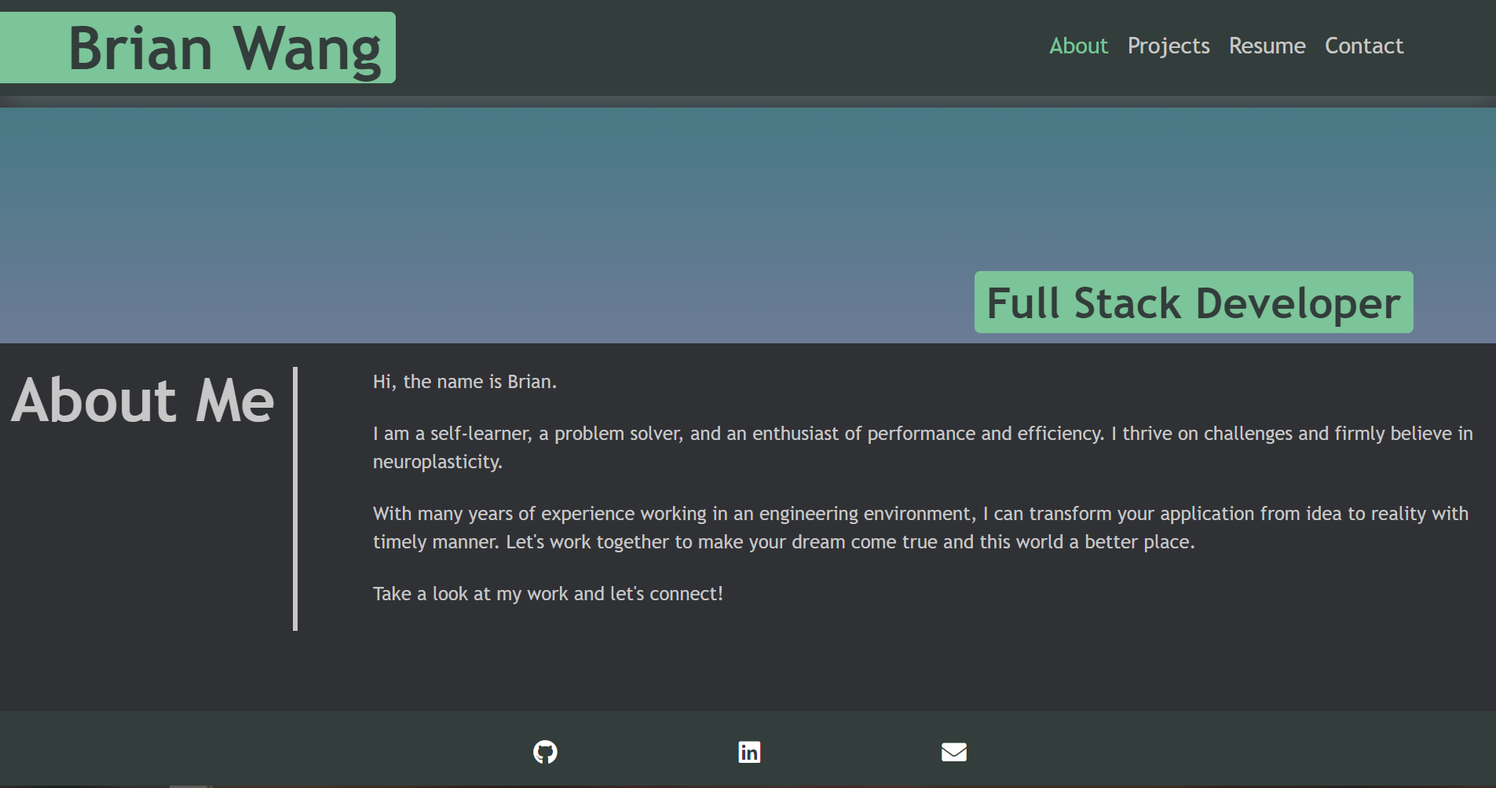
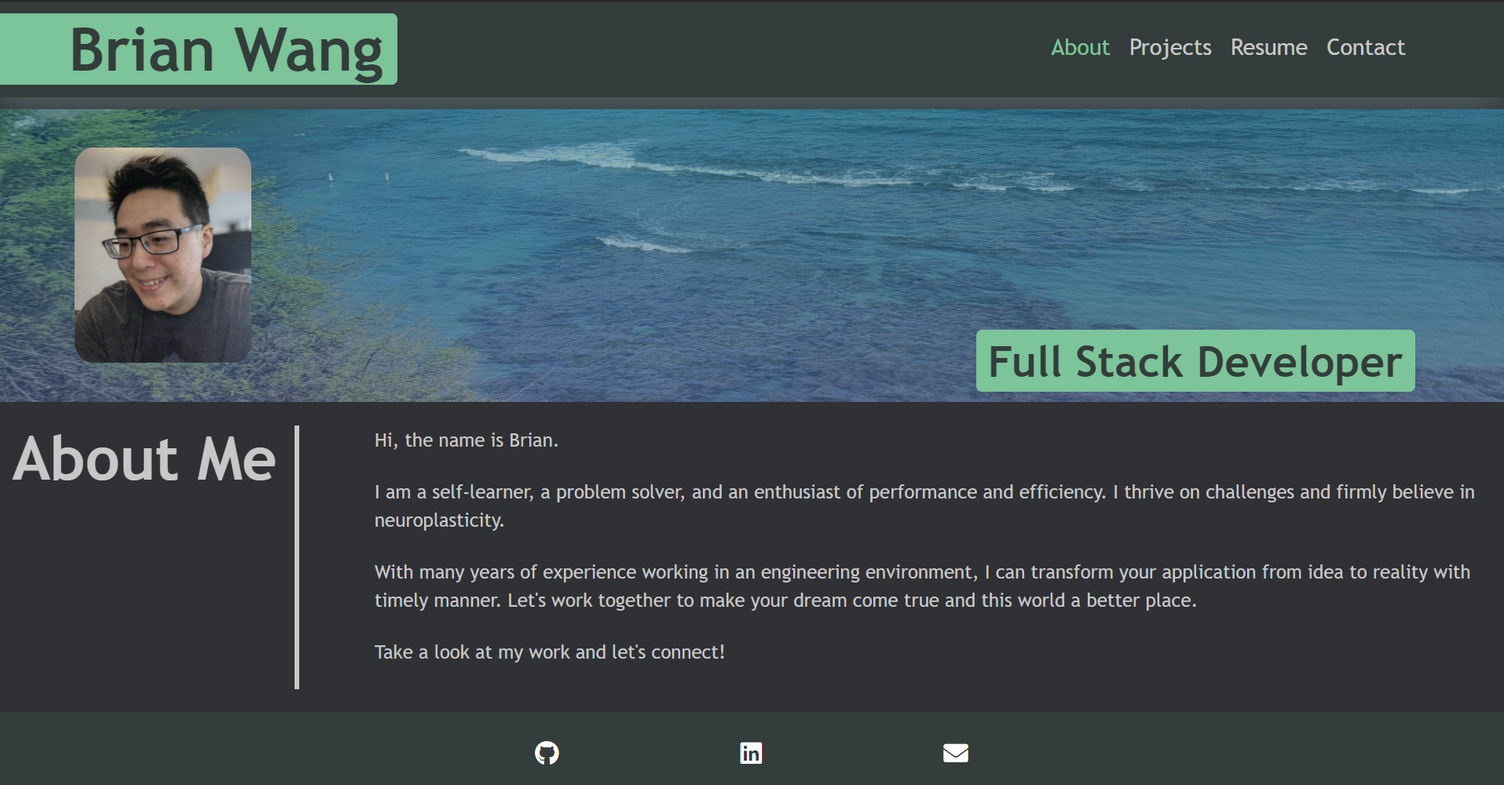
Updates

diff --git a/static/css/main.a3dd89c6.chunk.css b/static/css/main.a3dd89c6.chunk.css
@@ -1,0 +1,2 @@
+body{font-family:-apple-system,BlinkMacSystemFont,"Segoe UI","Roboto","Oxygen","Ubuntu","Cantarell","Fira Sans","Droid Sans","Helvetica Neue",sans-serif;-webkit-font-smoothing:antialiased;-moz-osx-font-smoothing:grayscale}code{font-family:source-code-pro,Menlo,Monaco,Consolas,"Courier New",monospace}.App{text-align:center}.App-logo{height:40vmin;pointer-events:none}@media (prefers-reduced-motion:no-preference){.App-logo{-webkit-animation:App-logo-spin 20s linear infinite;animation:App-logo-spin 20s linear infinite}}.App-header{background-color:#282c34;min-height:100vh;display:-webkit-flex;display:flex;-webkit-flex-direction:column;flex-direction:column;-webkit-align-items:center;align-items:center;-webkit-justify-content:center;justify-content:center;font-size:calc(10px + 2vmin);color:#fff}.App-link{color:#61dafb}@-webkit-keyframes App-logo-spin{0%{-webkit-transform:rotate(0deg);transform:rotate(0deg)}to{-webkit-transform:rotate(1turn);transform:rotate(1turn)}}@keyframes App-logo-spin{0%{-webkit-transform:rotate(0deg);transform:rotate(0deg)}to{-webkit-transform:rotate(1turn);transform:rotate(1turn)}}*{box-sizing:border-box}:root{--primary:#c7c7c7;--secondary:#6ac599;--tertiary:#313d3b;--project-primary:hsla(0,0%,78%,0.285);--dark:#303135;--light:#eeeef7;--spacing-one:0.5rem;--spacing-two:1rem}body{padding:0;font-family:"Trebuchet MS","Lucida Sans Unicode","Lucida Grande","Lucida Sans",Arial,sans-serif;color:#c7c7c7;color:var(--primary);background-color:#303135;background-color:var(--dark);line-height:1.5}body,h1,h2,h3,h4,h5,h6,p{margin:0}header{padding:5px 6% 5px 0;display:-webkit-flex;display:flex;-webkit-flex-direction:row;flex-direction:row;-webkit-justify-content:space-between;justify-content:space-between;-webkit-flex-wrap:wrap;flex-wrap:wrap;-webkit-align-items:center;align-items:center;background-color:#313d3b;background-color:var(--tertiary);box-shadow:0 5px 35px rgba(146,204,206,.4)}header h1{border-radius:0 5px 5px 0;color:#313d3b;color:var(--tertiary);background-color:#6ac599;background-color:var(--secondary);padding:5px 1% 5px 5%;margin:0;font-size:4vw;line-height:1}header a:hover{color:#eeeef7;color:var(--light);background-image:url(/my-portfolio-react/static/media/01-cover.cb5d76eb.jpg),linear-gradient(180deg,#6ac599,#c7c7c7);background-image:url(/my-portfolio-react/static/media/01-cover.cb5d76eb.jpg),linear-gradient(180deg,var(--secondary),var(--primary));background-size:cover;background-position:50%;background-blend-mode:soft-light}nav{display:-webkit-flex;display:flex;-webkit-flex-direction:row;flex-direction:row;-webkit-flex-wrap:wrap;flex-wrap:wrap;font-size:1.2rem}li{list-style:none}nav li{border-bottom:4px solid #313d3b;border-bottom:4px solid var(--tertiary)}nav li,nav li:hover{text-decoration:none}nav li:hover{transition:all .15s ease-in;border-bottom:4px solid #c7c7c7;border-bottom:4px solid var(--primary)}nav li{cursor:pointer}.mx-1{margin-right:.5rem;margin-right:var(--spacing-one);margin-left:.5rem;margin-left:var(--spacing-one)}.mx-2{margin-right:1rem;margin-right:var(--spacing-two);margin-left:1rem;margin-left:var(--spacing-two)}.flex-row{display:-webkit-flex;display:flex;-webkit-flex-wrap:wrap;flex-wrap:wrap}.navActive{color:#6ac599;color:var(--secondary)}main{margin-top:10px;margin-bottom:3rem}.hero-banner,.light{color:#eeeef7;color:var(--light)}.hero-banner{background:#445878;background-image:url(/my-portfolio-react/static/media/01-cover.cb5d76eb.jpg),linear-gradient(180deg,#6ac599,#c7c7c7);background-image:url(/my-portfolio-react/static/media/01-cover.cb5d76eb.jpg),linear-gradient(180deg,var(--secondary),var(--primary));background-size:cover;background-position:50%;background-blend-mode:soft-light;min-height:30vh;display:-webkit-flex;display:flex;-webkit-justify-content:flex-end;justify-content:flex-end;-webkit-align-items:flex-end;align-items:flex-end;text-align:right;padding:1% 6% 1% 10vw}.hero-banner img{width:150px;margin:20px;border-radius:10%;opacity:.9}.hero-banner img:hover{opacity:1}.hero-banner div{-webkit-flex:0 0 90%;flex:0 0 90%}.hero-banner h2{background-color:#6ac599;background-color:var(--secondary);border-radius:5px;color:#313d3b;color:var(--tertiary);margin:0;padding:5px 10px;font-size:2.3rem;line-height:1.2;display:inline}a:visited,a i{text-decoration:none;color:#fff}.skills-container{display:grid;grid-template-columns:repeat(5,1fr);grid-gap:10px;gap:10px;grid-auto-rows:minmax(90px,auto);margin:10px 200px;-webkit-flex:0 0 80%;flex:0 0 80%}.skills-item{justify-self:center;height:70px;width:70px}.skills-item:hover{transition:all .15s ease-out;height:80px;width:80px}.skills-item-1-1{grid-column:1;grid-row:1}.skills-item-2-1{grid-column:2;grid-row:1}.skills-item-3-1{grid-column:3;grid-row:1}.skills-item-4-1{grid-column:4;grid-row:1}.skills-item-5-1{grid-column:5;grid-row:1}.skills-item-1-2{grid-column:1;grid-row:2}.skills-item-2-2{grid-column:2;grid-row:2}.skills-item-3-2{grid-column:3;grid-row:2}.skills-item-4-2{grid-column:4;grid-row:2}.skills-item-5-2{grid-column:5;grid-row:2}.skills-item-1-3{grid-column:1;grid-row:3}.skills-item-2-3{grid-column:2;grid-row:3}.skills-item-3-3{grid-column:3;grid-row:3}.skills-item-4-3{grid-column:4;grid-row:3}.skills-item-5-3{grid-column:5;grid-row:3}.skills-item-1-4{grid-column:1;grid-row:4}.skills-item-2-4{grid-column:2;grid-row:4}.skills-item-3-4{grid-column:3;grid-row:4}.skills-item-4-4{grid-column:4;grid-row:4}.skills-item-5-4{grid-column:5;grid-row:4}.skills{font-size:20px;text-align:right;padding-top:3px;padding-bottom:3px;padding-right:10px;color:#eeeef7;color:var(--light);display:inline-block}.page-wrapper{max-width:88%;margin-left:auto;margin-right:auto}.page-section{margin:10px 0;padding:10px 0;display:-webkit-flex;display:flex;-webkit-flex-direction:row;flex-direction:row;-webkit-flex-wrap:wrap;flex-wrap:wrap;-webkit-align-items:stretch;align-items:stretch;-webkit-justify-content:space-between;justify-content:space-between}.page-section>h2{-webkit-flex:0 0 20%;flex:0 0 20%;text-align:right;padding-right:15px;border-right:4px solid #c7c7c7;border-right:4px solid var(--primary);font-size:4vw;line-height:1.1}.page-section>div{-webkit-flex:0 0 75%;flex:0 0 75%}.page-section p{text-align:left;margin-bottom:20px}.project-page{-webkit-justify-content:center;justify-content:center}.grid-container{display:grid;grid-column-gap:10px;-webkit-column-gap:10px;column-gap:10px;grid-row-gap:5px;row-gap:5px;grid-auto-flow:dense;grid-template-columns:repeat(12,1fr);grid-auto-rows:minmax(150px,1fr)}.grid-item{border:5px solid #6ac599;border:5px solid var(--secondary);grid-column:span 4;background-color:hsla(0,0%,78%,.285);background-color:var(--project-primary);color:#313d3b;color:var(--tertiary);min-height:100px;display:-webkit-flex;display:flex;-webkit-align-items:flex-end;align-items:flex-end;padding:0 0 20px;text-decoration:none;background-blend-mode:soft-light;background-size:150%;transition:all .15s;font-size:.8rem}.grid-item:first-child{grid-column:span 8;grid-row:span 2}.grid-item:hover{background-color:rgba(0,0,0,.3)}.grid-item div{background-color:#6ac599;background-color:var(--secondary);padding:3px 5px}.grid-item h3{font-size:1.3rem}.contact{display:-webkit-flex;display:flex;-webkit-flex-wrap:wrap;flex-wrap:wrap;-webkit-justify-content:space-around;justify-content:space-around;-webkit-align-items:right;align-items:right;height:4rem}.contact a{color:#eeeef7;color:var(--light);padding:5px;text-decoration:none;font-size:1.3rem;font-style:normal;background-repeat:no-repeat;background-size:100% .2em;background-position:bottom;transition:all .15s ease-in;margin:0 .2rem .1rem;display:inline-block;border-bottom:4px solid #313d3b;border-bottom:4px solid var(--tertiary)}.contact a:hover{background-size:100% 88%;border-bottom:4px solid #c7c7c7;border-bottom:4px solid var(--primary)}.footer-div{width:100%;position:absolute;bottom:0;padding:15px 35%;display:-webkit-flex;display:flex;-webkit-flex-direction:row;flex-direction:row;-webkit-justify-content:space-between;justify-content:space-between;-webkit-flex-wrap:wrap;flex-wrap:wrap;-webkit-align-items:center;align-items:center;background-color:#313d3b;background-color:var(--tertiary)}.run-buddy{background-image:url(/my-portfolio-react/static/media/02-run-buddy.b57f2b88.jpg)}.SaveTV{background-image:url(/my-portfolio-react/static/media/02-SaveTV.3c4e9e1b.gif);background-size:100%;background-position:-50%}.weather-dashboard{background-image:url(/my-portfolio-react/static/media/02-weather-dashboard.c79cdfc3.png)}.day-scheduler{background-image:url(/my-portfolio-react/static/media/02-day-scheduler.5e35d7c6.png)}.task-master{background-image:url(/my-portfolio-react/static/media/02-task-master.2f2d6197.png)}.woof{background-image:url(/my-portfolio-react/static/media/02-woof-login-page.36a303f6.JPG)}.airhockey-table{background-image:url(/my-portfolio-react/static/media/02-airhockey-table.9531cc7b.png);background-size:150%;background-position:0 40%}.reward-bank{background-image:url(/my-portfolio-react/static/media/02-reward-bank.a0e0a581.png);background-size:100%;background-position:0 0}.contact-form,.contact-form div{justify-self:center}.contact-form div{width:80%}.contact-form input{font-size:1rem;padding:.25rem;border:1px solid #303135;border:1px solid var(--dark);outline:none;border-radius:3px;transition:box-shadow .15s}.contact-form input:focus{border:1px solid #6ac599;border:1px solid var(--secondary);box-shadow:0 0 .25rem rgba(0,0,0,.5)}.contact-form textarea{height:120px;justify-self:left;border:3px solid #ccc;padding:10px}.contact-form button{font-size:1rem;text-decoration:none;padding:.25rem 1rem;border-radius:.5rem;border:none;outline:none;cursor:pointer;margin:0 1px;background-color:#6ac599;background-color:var(--secondary)}.contact-form button:hover{opacity:.8}.contact-form button[disabled]{cursor:default;opacity:.8}.contact-flex{display:-webkit-flex;display:flex}.contact-flex-left{-webkit-flex:0 0 40%;flex:0 0 40%}.contact-flex-right{-webkit-flex:0 0 60%;flex:0 0 60%}@media screen and (max-width:980px){header{padding:0 0 10px;-webkit-justify-content:center;justify-content:center;text-align:center}header h1{width:100%;padding:5px;margin-bottom:5px;font-size:10vw}header nav{-webkit-justify-content:center;justify-content:center}.page-section>div,.page-section>h2{-webkit-flex:0 0 100%;flex:0 0 100%}.page-section>h2{border-right:none;border-bottom:4px solid #c7c7c7;border-bottom:4px solid var(--primary);margin-bottom:20px;padding-bottom:10px;text-align:left;font-size:7vw}.project-page{margin-left:0;margin-right:0}.hero-banner{-webkit-flex-direction:column;flex-direction:column;-webkit-justify-content:space-between;justify-content:space-between;-webkit-align-items:center;align-items:center;text-align:center;padding-left:50px}.about-page{padding:5%}.skills-name{width:20%}.skills-container{display:grid;grid-template-columns:repeat(5,1fr);grid-gap:10px;gap:10px;grid-auto-rows:minmax(70px,auto);margin:10px 100px}.footer-div{position:relative;padding:15px 30%}.cotact-form{width:100%}.contact-form div{width:auto}.contact-form input,.contact-form textarea{width:100%}.contact-flex{padding:15px 10%;width:100%;-webkit-justify-content:flex-start;justify-content:flex-start;-webkit-flex-direction:column;flex-direction:column}.contact-flex,.contact-flex-left,.contact-flex-right{-webkit-flex:0 0 100%;flex:0 0 100%}}@media screen and (max-width:768px){.grid-item,.grid-item:first-child{grid-column:1/-1}.grid-container{grid-auto-rows:minmax(200px,1fr)}.contact address{-webkit-flex-direction:column;flex-direction:column;-webkit-align-items:center;align-items:center}.skills-container{display:grid;grid-template-columns:repeat(5,1fr);grid-gap:20px;gap:20px;grid-auto-rows:minmax(100px,auto);margin:10px}.footer-div{padding:15px 20%}.contact-form input,.contact-form textarea,.cotact-form{width:100%}}
+/*# sourceMappingURL=main.a3dd89c6.chunk.css.map */

diff --git a/static/js/main.a2506a3e.chunk.js b/static/js/main.a2506a3e.chunk.js
@@ -1,0 +1,2 @@
+(this["webpackJsonpmy-portfolio-react"]=this["webpackJsonpmy-portfolio-react"]||[]).push([[0],[,,,,,,,,,,,function(e,t,s){},function(e,t,s){},,function(e,t,s){"use strict";s.r(t),t.default=s.p+"static/media/01-profile-pic.65e2abc6.jpg"},function(e,t,s){var a={"./arduino-1.svg":16,"./bootstrap-5-1.svg":17,"./c-Sharp-01.svg":18,"./c.svg":19,"./css-5.svg":20,"./git-icon.svg":21,"./github-icon-1.svg":22,"./heroku-4.svg":23,"./html5.svg":24,"./insomnia-core.svg":25,"./javascript.svg":26,"./mongodb-icon-1.svg":27,"./mysql-5.svg":28,"./node-JS-01.svg":29,"./npm-square-red-1.svg":30,"./npm.svg":31,"./openCV.svg":32,"./react-icon.svg":33,"./sequelize.svg":34,"./visual-studio-2013.svg":35,"./visual-studio-code-1.svg":36};function i(e){var t=c(e);return s(t)}function c(e){if(!s.o(a,e)){var t=new Error("Cannot find module '"+e+"'");throw t.code="MODULE_NOT_FOUND",t}return a[e]}i.keys=function(){return Object.keys(a)},i.resolve=c,e.exports=i,i.id=15},function(e,t,s){"use strict";s.r(t),t.default=s.p+"static/media/arduino-1.5e8b9530.svg"},function(e,t,s){"use strict";s.r(t),t.default=s.p+"static/media/bootstrap-5-1.98585727.svg"},function(e,t,s){"use strict";s.r(t),t.default=s.p+"static/media/c-Sharp-01.b3937fbb.svg"},function(e,t,s){"use strict";s.r(t),t.default=s.p+"static/media/c.a776a608.svg"},function(e,t,s){"use strict";s.r(t),t.default=s.p+"static/media/css-5.d4c86ccd.svg"},function(e,t,s){"use strict";s.r(t),t.default=s.p+"static/media/git-icon.c60b7e5a.svg"},function(e,t,s){"use strict";s.r(t),t.default=s.p+"static/media/github-icon-1.e0d7d725.svg"},function(e,t,s){"use strict";s.r(t),t.default=s.p+"static/media/heroku-4.b7e7f910.svg"},function(e,t,s){"use strict";s.r(t),t.default=s.p+"static/media/html5.3efc40a5.svg"},function(e,t,s){"use strict";s.r(t),t.default=s.p+"static/media/insomnia-core.c3d741d7.svg"},function(e,t,s){"use strict";s.r(t),t.default=s.p+"static/media/javascript.00f3e5cf.svg"},function(e,t,s){"use strict";s.r(t),t.default=s.p+"static/media/mongodb-icon-1.1aca075d.svg"},function(e,t,s){"use strict";s.r(t),t.default=s.p+"static/media/mysql-5.f6cec086.svg"},function(e,t,s){"use strict";s.r(t),t.default=s.p+"static/media/node-JS-01.f163cddf.svg"},function(e,t,s){"use strict";s.r(t),t.default=s.p+"static/media/npm-square-red-1.d8917a42.svg"},function(e,t,s){"use strict";s.r(t),t.default=s.p+"static/media/npm.5066c092.svg"},function(e,t,s){"use strict";s.r(t),t.default=s.p+"static/media/openCV.befbdbe5.svg"},function(e,t,s){"use strict";s.r(t),t.default=s.p+"static/media/react-icon.e68b35f4.svg"},function(e,t,s){"use strict";s.r(t),t.default=s.p+"static/media/sequelize.70ccab6c.svg"},function(e,t,s){"use strict";s.r(t),t.default=s.p+"static/media/visual-studio-2013.bf694f65.svg"},function(e,t,s){"use strict";s.r(t),t.default=s.p+"static/media/visual-studio-code-1.b8b1e001.svg"},function(e,t,s){"use strict";s.r(t);var a=s(1),i=s.n(a),c=s(6),n=s.n(c),r=(s(11),s(2)),l=(s(12),s(0));var o=function(){return Object(l.jsxs)(l.Fragment,{children:[Object(l.jsxs)("section",{className:"hero-banner",children:[Object(l.jsx)("img",{src:s(14).default,alt:"brian"}),Object(l.jsx)("div",{children:Object(l.jsx)("h2",{children:"Full Stack Developer"})})]}),Object(l.jsxs)("section",{className:"page-section about-page",id:"about",children:[Object(l.jsx)("h2",{children:"About Me"}),Object(l.jsxs)("div",{children:[Object(l.jsx)("p",{children:"Hi, the name is Brian."}),Object(l.jsx)("p",{children:"I am a self-learner, a problem solver, and an enthusiast of performance and efficiency. I thrive on challenges and firmly believe in neuroplasticity."}),Object(l.jsx)("p",{children:"With many years of experience working in an engineering environment, I can transform your application from idea to reality with timely manner. Let's work together to make your dream come true and this world a better place."}),Object(l.jsx)("p",{children:"Take a look at my work and let's connect!"})]})]})]})},m=s(3),d=s(5);var u=function(){var e=Object(a.useState)({name:"",email:"",message:""}),t=Object(r.a)(e,2),s=t[0],i=t[1],c=s.name,n=s.email,o=s.message,u=Object(a.useState)(""),b=Object(r.a)(u,2),j=b[0],g=b[1];function f(e){switch(e.target.name){case"name":e.target.value.trim()?g(""):g("Missing name.");break;case"email":var t=function(e){return/^(([^<>()[\]\\.,;:\s@"]+(\.[^<>()[\]\\.,;:\s@"]+)*)|(".+"))@((\[[0-9]{1,3}\.[0-9]{1,3}\.[0-9]{1,3}\.[0-9]{1,3}\])|(([a-zA-Z\-0-9]+\.)+[a-zA-Z]{2,}))$/.test(String(e).toLowerCase())}(e.target.value);e.target.value.trim()&&!t?g("Your email is invalid."):e.target.value.trim()?g(""):g("Missing email.");break;case"message":e.target.value.trim()?g(""):g("Missing message.")}j||i(Object(d.a)(Object(d.a)({},s),{},Object(m.a)({},e.target.name,e.target.value))),console.log("errorMessage",j)}return Object(l.jsxs)("section",{children:[Object(l.jsx)("br",{}),Object(l.jsx)("h1",{"data-testid":"testId-contact-h1",children:"Contact me"}),Object(l.jsx)("br",{}),Object(l.jsxs)("form",{className:"contact-form",id:"contact-form",onSubmit:function(e){e.preventDefault(),console.log(s)},children:[Object(l.jsxs)("div",{className:"contact-flex",children:[Object(l.jsx)("label",{className:"contact-flex-left",htmlFor:"name",children:"Name:"}),Object(l.jsx)("input",{className:"contact-flex-right",type:"text",defaultValue:c,onBlur:f,name:"name"})]}),Object(l.jsx)("br",{}),Object(l.jsxs)("div",{className:"contact-flex",children:[Object(l.jsx)("label",{className:"contact-flex-left",htmlFor:"email",children:"Email address:"}),Object(l.jsx)("input",{className:"contact-flex-right",type:"email",defaultValue:n,name:"email",onBlur:f})]}),Object(l.jsx)("br",{}),Object(l.jsxs)("div",{className:"contact-flex",children:[Object(l.jsx)("label",{className:"contact-flex-left",htmlFor:"message",children:"Message:"}),Object(l.jsx)("textarea",{className:"contact-flex-right",name:"message",defaultValue:o,onBlur:f,rows:"5"})]}),Object(l.jsx)("div",{children:j&&Object(l.jsx)("p",{className:"error-text",children:j})}),Object(l.jsx)("br",{}),Object(l.jsx)("button",{type:"submit","data-testid":"testId-contact-button",children:"Submit"})]})]})};var b=function(){return Object(l.jsx)("footer",{children:Object(l.jsxs)("address",{className:"footer-div contact",children:[Object(l.jsx)("a",{href:"https://github.com/BrianCKWang/",target:"_blank",rel:"noreferrer",children:Object(l.jsx)("i",{className:"fab fa-github social-icon"})}),Object(l.jsx)("a",{href:"https://www.linkedin.com/in/chun-kai-brian-wang-292b6b48/",target:"_blank",rel:"noreferrer",children:Object(l.jsx)("i",{className:"fab fa-linkedin social-icon"})}),Object(l.jsx)("a",{href:"mailto:brian.ck.wang@gmail.com",target:"_blank",rel:"noreferrer",children:Object(l.jsx)("i",{className:"fas fa-envelope social-icon"})})]})})};var j=function(e){var t=e.pages,s=void 0===t?[]:t,a=e.currentPage,i=e.setCurrentPage;return Object(l.jsxs)("header",{children:[Object(l.jsx)("h1",{children:"Brian Wang"}),Object(l.jsx)("nav",{children:Object(l.jsx)("ul",{className:"flex-row",children:s.map((function(e){return Object(l.jsx)("li",{className:"mx-1 ".concat(a.name===e.name&&"navActive"),children:Object(l.jsx)("span",{onClick:function(){i(e)},children:(t=e.name,t.charAt(0).toUpperCase()+t.slice(1))})},e.name);var t}))})})]})};var g=function(){return Object(l.jsx)(l.Fragment,{children:Object(l.jsx)("section",{className:"page-section project-page",id:"work",children:Object(l.jsx)("div",{className:"grid-container",children:[{name:"Woof",a_class:"grid-item woof",link:"https://github.com/woof-board/woof",skillList:"MERN Stack/Stripe API"},{name:"RewardBank",a_class:"grid-item reward-bank",link:"https://rocky-dawn-18669.herokuapp.com/",skillList:"MVC/REST Api/JavaScript"},{name:"SaveTV",a_class:"grid-item SaveTV",link:"https://utbootcampgroup2.github.io/SaveTV/",skillList:"JavaScript"},{name:"Weather Dashboard",a_class:"grid-item weather-dashboard",link:"https://brianckwang.github.io/weather-dashboard/",skillList:"JavaScript/OpenWeatherMap"},{name:"Day Scheduler",a_class:"grid-item day-scheduler",link:"https://brianckwang.github.io/simple-day-scheduler/",skillList:"JavaScript"},{name:"Airhockey Robot",a_class:"grid-item airhockey-table",link:"https://github.com/BrianCKWang/airhockey-table-robot",skillList:"C#/EMGU CV.NET/Arduino"}].map((function(e,t){return Object(l.jsx)("a",{href:e.link,className:e.a_class,target:"_blank",rel:"noreferrer",children:Object(l.jsxs)("div",{children:[Object(l.jsx)("h3",{children:e.name}),Object(l.jsx)("span",{children:e.skillList})]})},"a"+t)}))})})})},f=s.p+"static/media/Resume.1a273d9a.pdf";var h=function(){return Object(l.jsx)(l.Fragment,{children:Object(l.jsxs)("section",{className:"my-5",children:[Object(l.jsxs)("div",{className:"skills-div",children:[Object(l.jsx)("br",{}),Object(l.jsx)("h2",{children:"My Skill Bag"}),Object(l.jsx)("br",{}),Object(l.jsx)("div",{className:"skills-container",children:[{class:"skills-item skills-item-1-1",name:"HTML",icon:"html5.svg"},{class:"skills-item skills-item-2-1",name:"CSS",icon:"css-5.svg"},{class:"skills-item skills-item-3-1",name:"Javascript",icon:"javascript.svg"},{class:"skills-item skills-item-4-1",name:"Nodejs",icon:"node-JS-01.svg"},{class:"skills-item skills-item-5-1",name:"Bootstrap",icon:"bootstrap-5-1.svg"},{class:"skills-item skills-item-1-2",name:"MySQL",icon:"mysql-5.svg"},{class:"skills-item skills-item-4-2",name:"Sequelize",icon:"sequelize.svg"},{class:"skills-item skills-item-2-2",name:"MongoDB",icon:"mongodb-icon-1.svg"},{class:"skills-item skills-item-3-2",name:"npm",icon:"npm-square-red-1.svg"},{class:"skills-item skills-item-5-2",name:"React",icon:"react-icon.svg"},{class:"skills-item skills-item-1-3",name:"VisualStudioCode",icon:"visual-studio-code-1.svg"},{class:"skills-item skills-item-4-3",name:"VisualStudio",icon:"visual-studio-2013.svg"},{class:"skills-item skills-item-2-3",name:"Csharp",icon:"c-Sharp-01.svg"},{class:"skills-item skills-item-3-3",name:"Arduino",icon:"arduino-1.svg"},{class:"skills-item skills-item-5-3",name:"OpenCV",icon:"openCV.svg"}].map((function(e,t){return Object(l.jsx)("img",{className:e.class,title:e.name,src:s(15)("./".concat(e.icon)).default,alt:e.name},t)}))})]}),Object(l.jsx)("br",{}),Object(l.jsxs)("div",{className:"resume-div",children:[Object(l.jsx)("h1",{children:"Download my resume"}),Object(l.jsx)("a",{href:f,children:"Click me!"})]})]})})};var v=function(){var e=Object(a.useState)([{name:"About",JSX:Object(l.jsx)(o,{})},{name:"Projects",JSX:Object(l.jsx)(g,{})},{name:"Resume",JSX:Object(l.jsx)(h,{})},{name:"Contact",JSX:Object(l.jsx)(u,{})}]),t=Object(r.a)(e,1)[0],s=Object(a.useState)(t[0]),i=Object(r.a)(s,2),c=i[0],n=i[1];return Object(a.useEffect)((function(){document.title="Brian's "+c.name}),[c]),Object(l.jsxs)("div",{className:"App",children:[Object(l.jsx)(j,{pages:t,currentPage:c,setCurrentPage:n}),Object(l.jsx)("main",{children:c.JSX}),Object(l.jsx)(b,{})]})},p=function(e){e&&e instanceof Function&&s.e(3).then(s.bind(null,38)).then((function(t){var s=t.getCLS,a=t.getFID,i=t.getFCP,c=t.getLCP,n=t.getTTFB;s(e),a(e),i(e),c(e),n(e)}))};n.a.render(Object(l.jsx)(i.a.StrictMode,{children:Object(l.jsx)(v,{})}),document.getElementById("root")),p()}],[[37,1,2]]]);
+//# sourceMappingURL=main.a2506a3e.chunk.js.map

diff --git a/index.html b/index.html
@@ -1,1 +1,1 @@
-<!doctype html><html lang="en"><head><meta charset="utf-8"/><link rel="icon" href="/my-portfolio-react/favicon.ico"/><meta name="viewport" content="width=device-width,initial-scale=1"/><meta name="theme-color" content="#000000"/><meta name="description" content="Web site created using create-react-app"/><link rel="apple-touch-icon" href="/my-portfolio-react/logo192.png"/><link rel="manifest" href="/my-portfolio-react/manifest.json"/><title>React App</title><script src="https://kit.fontawesome.com/beae1c0869.js" crossorigin="anonymous"></script><link href="/my-portfolio-react/static/css/main.c88ef37d.chunk.css" rel="stylesheet"></head><body><noscript>You need to enable JavaScript to run this app.</noscript><div id="root"></div><script>!function(e){function r(r){for(var n,i,a=r[0],c=r[1],l=r[2],p=0,s=[];p<a.length;p++)i=a[p],Object.prototype.hasOwnProperty.call(o,i)&&o[i]&&s.push(o[i][0]),o[i]=0;for(n in c)Object.prototype.hasOwnProperty.call(c,n)&&(e[n]=c[n]);for(f&&f(r);s.length;)s.shift()();return u.push.apply(u,l||[]),t()}function t(){for(var e,r=0;r<u.length;r++){for(var t=u[r],n=!0,a=1;a<t.length;a++){var c=t[a];0!==o[c]&&(n=!1)}n&&(u.splice(r--,1),e=i(i.s=t[0]))}return e}var n={},o={1:0},u=[];function i(r){if(n[r])return n[r].exports;var t=n[r]={i:r,l:!1,exports:{}};return e[r].call(t.exports,t,t.exports,i),t.l=!0,t.exports}i.e=function(e){var r=[],t=o[e];if(0!==t)if(t)r.push(t[2]);else{var n=new Promise((function(r,n){t=o[e]=[r,n]}));r.push(t[2]=n);var u,a=document.createElement("script");a.charset="utf-8",a.timeout=120,i.nc&&a.setAttribute("nonce",i.nc),a.src=function(e){return i.p+"static/js/"+({}[e]||e)+"."+{3:"10fc3f06"}[e]+".chunk.js"}(e);var c=new Error;u=function(r){a.onerror=a.onload=null,clearTimeout(l);var t=o[e];if(0!==t){if(t){var n=r&&("load"===r.type?"missing":r.type),u=r&&r.target&&r.target.src;c.message="Loading chunk "+e+" failed.\n("+n+": "+u+")",c.name="ChunkLoadError",c.type=n,c.request=u,t[1](c)}o[e]=void 0}};var l=setTimeout((function(){u({type:"timeout",target:a})}),12e4);a.onerror=a.onload=u,document.head.appendChild(a)}return Promise.all(r)},i.m=e,i.c=n,i.d=function(e,r,t){i.o(e,r)||Object.defineProperty(e,r,{enumerable:!0,get:t})},i.r=function(e){"undefined"!=typeof Symbol&&Symbol.toStringTag&&Object.defineProperty(e,Symbol.toStringTag,{value:"Module"}),Object.defineProperty(e,"__esModule",{value:!0})},i.t=function(e,r){if(1&r&&(e=i(e)),8&r)return e;if(4&r&&"object"==typeof e&&e&&e.__esModule)return e;var t=Object.create(null);if(i.r(t),Object.defineProperty(t,"default",{enumerable:!0,value:e}),2&r&&"string"!=typeof e)for(var n in e)i.d(t,n,function(r){return e[r]}.bind(null,n));return t},i.n=function(e){var r=e&&e.__esModule?function(){return e.default}:function(){return e};return i.d(r,"a",r),r},i.o=function(e,r){return Object.prototype.hasOwnProperty.call(e,r)},i.p="/my-portfolio-react/",i.oe=function(e){throw console.error(e),e};var a=this["webpackJsonpmy-portfolio-react"]=this["webpackJsonpmy-portfolio-react"]||[],c=a.push.bind(a);a.push=r,a=a.slice();for(var l=0;l<a.length;l++)r(a[l]);var f=c;t()}([])</script><script src="/my-portfolio-react/static/js/2.a3836d2d.chunk.js"></script><script src="/my-portfolio-react/static/js/main.beb04224.chunk.js"></script></body></html>
+<!doctype html><html lang="en"><head><meta charset="utf-8"/><link rel="icon" href="/my-portfolio-react/favicon.ico"/><meta name="viewport" content="width=device-width,initial-scale=1"/><meta name="theme-color" content="#000000"/><meta name="description" content="Web site created using create-react-app"/><link rel="apple-touch-icon" href="/my-portfolio-react/logo192.png"/><link rel="manifest" href="/my-portfolio-react/manifest.json"/><title>React App</title><script src="https://kit.fontawesome.com/beae1c0869.js" crossorigin="anonymous"></script><link href="/my-portfolio-react/static/css/main.a3dd89c6.chunk.css" rel="stylesheet"></head><body><noscript>You need to enable JavaScript to run this app.</noscript><div id="root"></div><script>!function(e){function r(r){for(var n,i,a=r[0],c=r[1],l=r[2],p=0,s=[];p<a.length;p++)i=a[p],Object.prototype.hasOwnProperty.call(o,i)&&o[i]&&s.push(o[i][0]),o[i]=0;for(n in c)Object.prototype.hasOwnProperty.call(c,n)&&(e[n]=c[n]);for(f&&f(r);s.length;)s.shift()();return u.push.apply(u,l||[]),t()}function t(){for(var e,r=0;r<u.length;r++){for(var t=u[r],n=!0,a=1;a<t.length;a++){var c=t[a];0!==o[c]&&(n=!1)}n&&(u.splice(r--,1),e=i(i.s=t[0]))}return e}var n={},o={1:0},u=[];function i(r){if(n[r])return n[r].exports;var t=n[r]={i:r,l:!1,exports:{}};return e[r].call(t.exports,t,t.exports,i),t.l=!0,t.exports}i.e=function(e){var r=[],t=o[e];if(0!==t)if(t)r.push(t[2]);else{var n=new Promise((function(r,n){t=o[e]=[r,n]}));r.push(t[2]=n);var u,a=document.createElement("script");a.charset="utf-8",a.timeout=120,i.nc&&a.setAttribute("nonce",i.nc),a.src=function(e){return i.p+"static/js/"+({}[e]||e)+"."+{3:"10fc3f06"}[e]+".chunk.js"}(e);var c=new Error;u=function(r){a.onerror=a.onload=null,clearTimeout(l);var t=o[e];if(0!==t){if(t){var n=r&&("load"===r.type?"missing":r.type),u=r&&r.target&&r.target.src;c.message="Loading chunk "+e+" failed.\n("+n+": "+u+")",c.name="ChunkLoadError",c.type=n,c.request=u,t[1](c)}o[e]=void 0}};var l=setTimeout((function(){u({type:"timeout",target:a})}),12e4);a.onerror=a.onload=u,document.head.appendChild(a)}return Promise.all(r)},i.m=e,i.c=n,i.d=function(e,r,t){i.o(e,r)||Object.defineProperty(e,r,{enumerable:!0,get:t})},i.r=function(e){"undefined"!=typeof Symbol&&Symbol.toStringTag&&Object.defineProperty(e,Symbol.toStringTag,{value:"Module"}),Object.defineProperty(e,"__esModule",{value:!0})},i.t=function(e,r){if(1&r&&(e=i(e)),8&r)return e;if(4&r&&"object"==typeof e&&e&&e.__esModule)return e;var t=Object.create(null);if(i.r(t),Object.defineProperty(t,"default",{enumerable:!0,value:e}),2&r&&"string"!=typeof e)for(var n in e)i.d(t,n,function(r){return e[r]}.bind(null,n));return t},i.n=function(e){var r=e&&e.__esModule?function(){return e.default}:function(){return e};return i.d(r,"a",r),r},i.o=function(e,r){return Object.prototype.hasOwnProperty.call(e,r)},i.p="/my-portfolio-react/",i.oe=function(e){throw console.error(e),e};var a=this["webpackJsonpmy-portfolio-react"]=this["webpackJsonpmy-portfolio-react"]||[],c=a.push.bind(a);a.push=r,a=a.slice();for(var l=0;l<a.length;l++)r(a[l]);var f=c;t()}([])</script><script src="/my-portfolio-react/static/js/2.a3836d2d.chunk.js"></script><script src="/my-portfolio-react/static/js/main.a2506a3e.chunk.js"></script></body></html>
